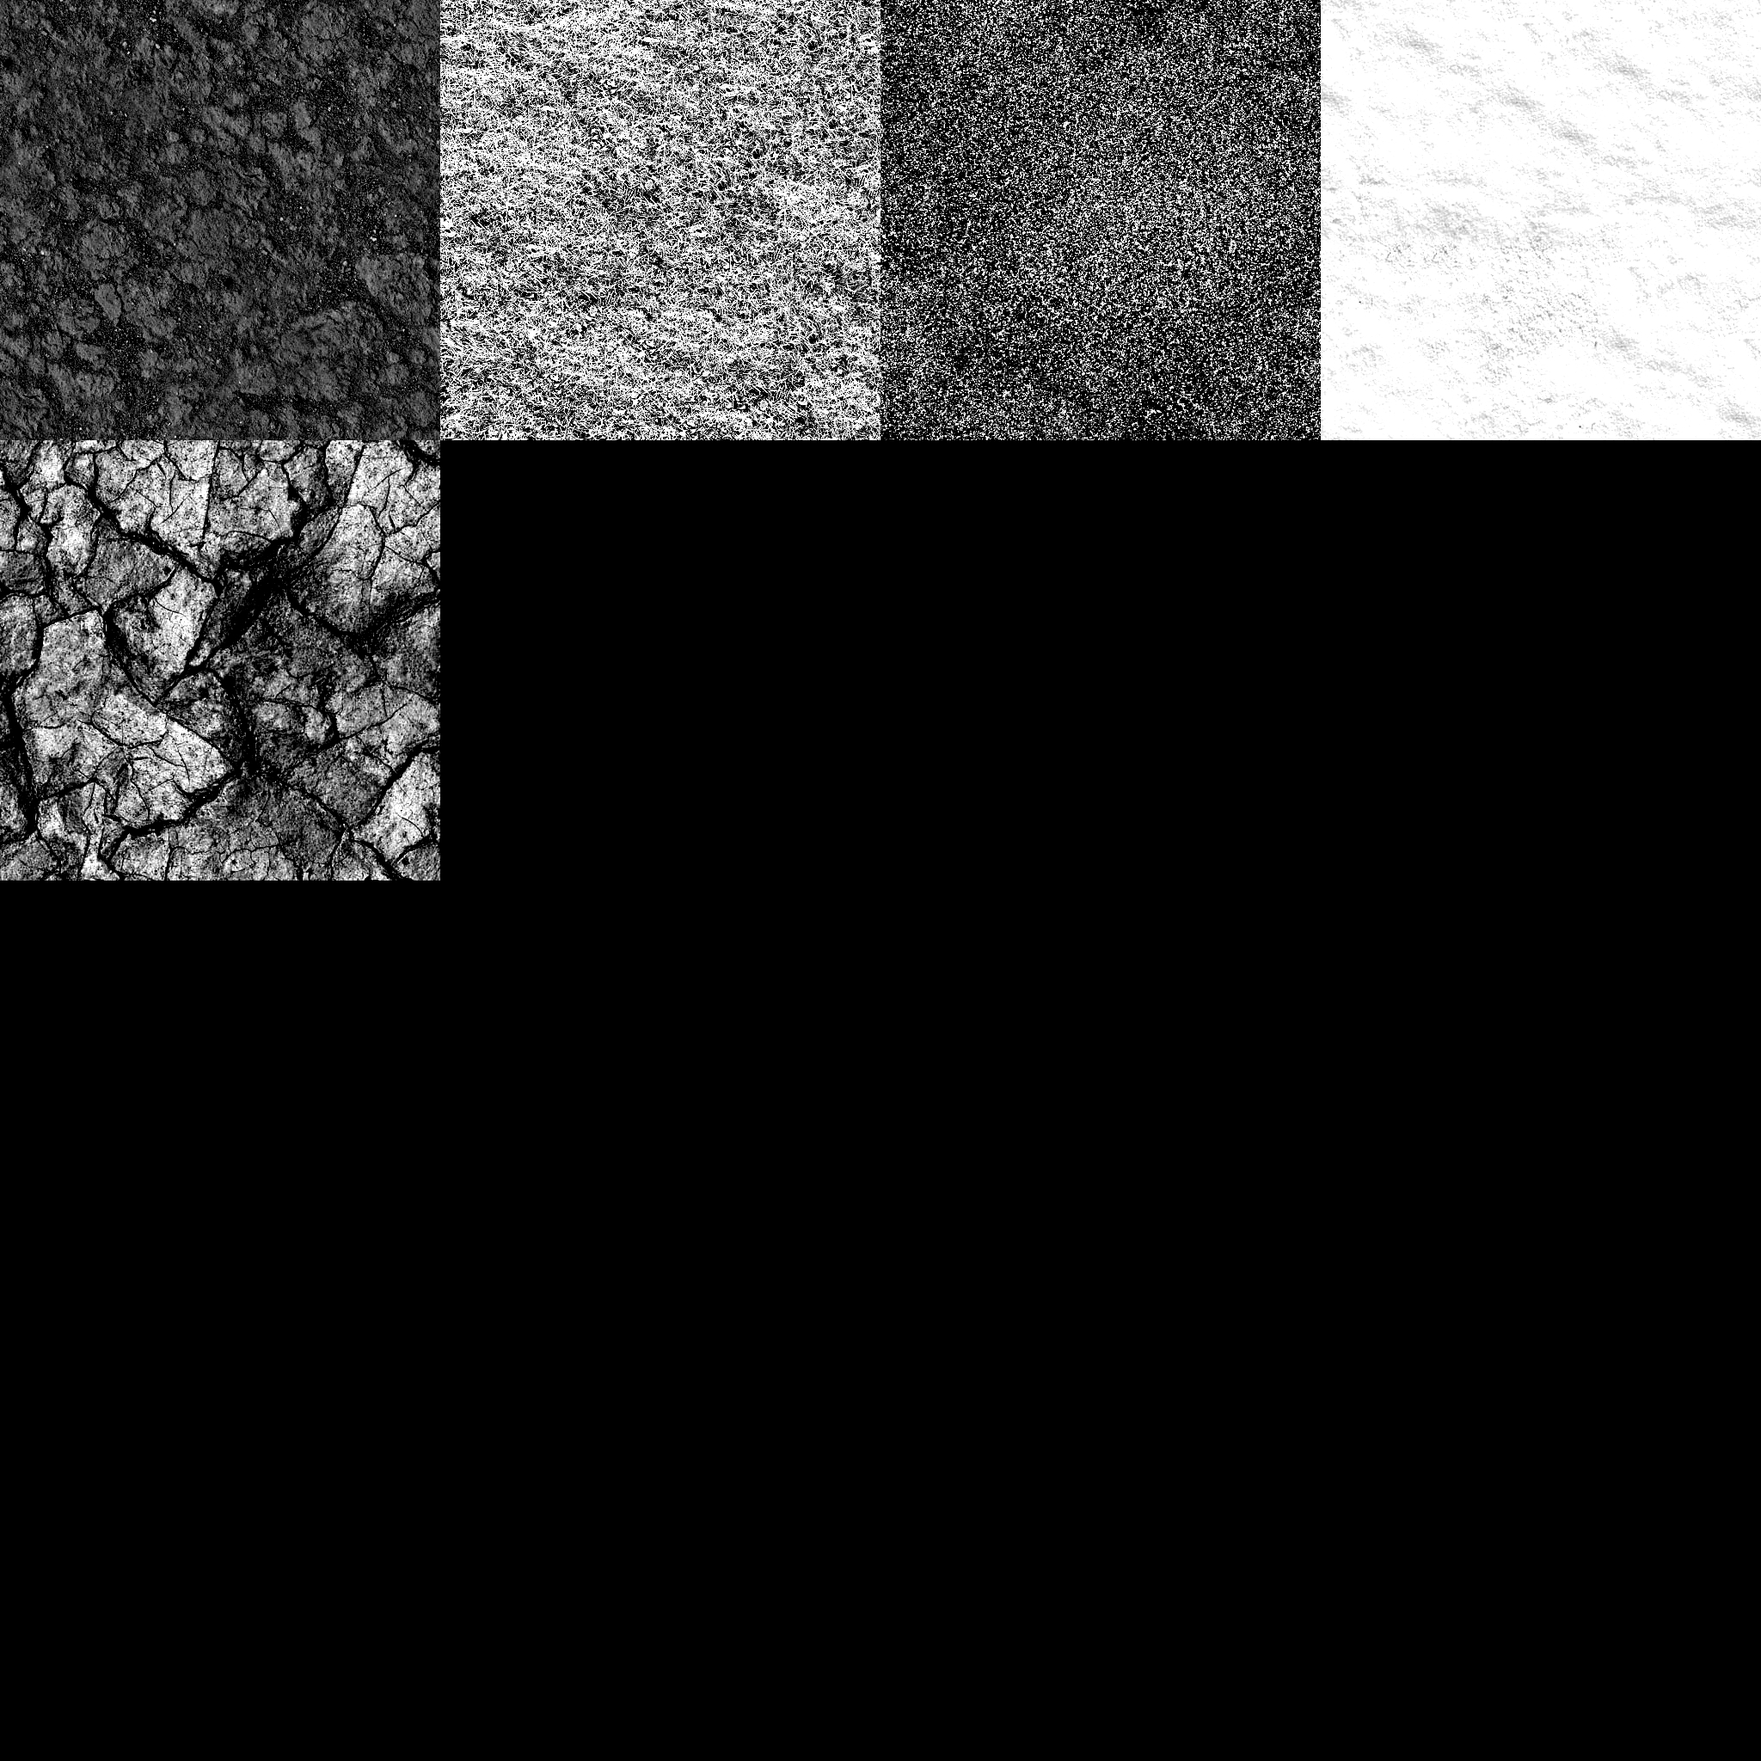
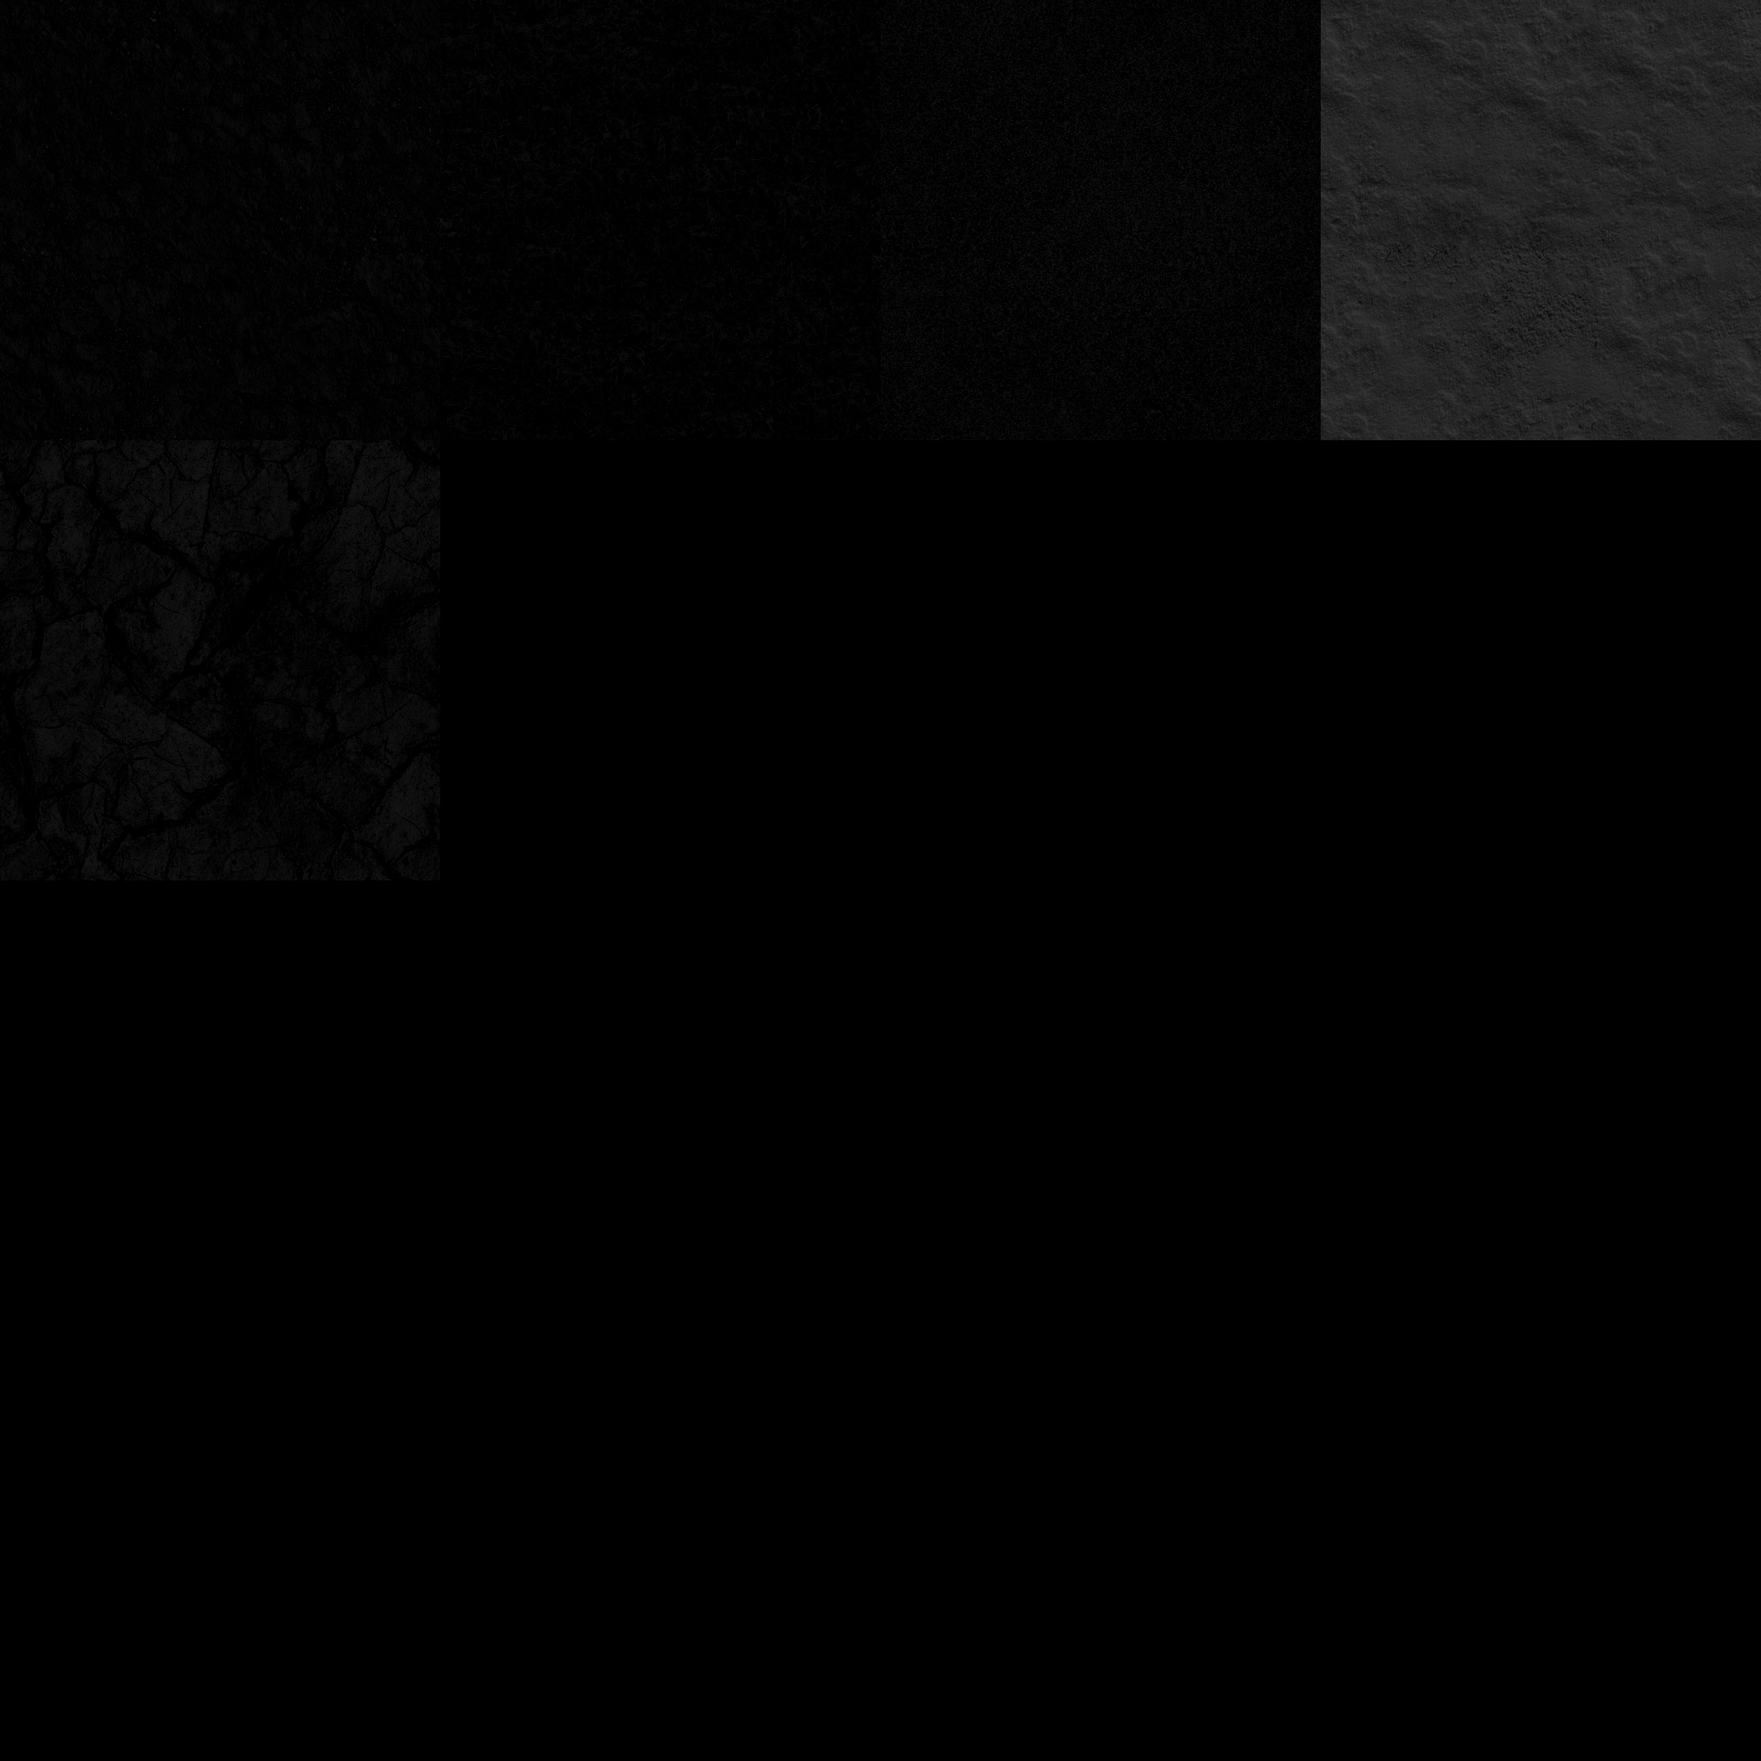
Поправил освещение

Changed region(s): [[0.0, 0.0, 1.0, 0.5]]

diff --git a/client/src/app/datas/three.js/shaders/terrain.shader.ts b/client/src/app/datas/three.js/shaders/terrain.shader.ts
@@ -30,14 +30,14 @@ export const MaskTextureNamePreffix: string = "maskTex";
 export const MapTextureName: string = "mapTexture";
 export const NormalMapTextureName: string = "normalMapTexture";
 export const AoMapTextureName: string = "aoMapTexture";
-export const LightMapName: string = "lightMap";
+export const LightMapTextureName: string = "lightMap";
 
 // Массивы тайлов
 const MapRepeats: string[] = CreateNamedArray(TerrainRepeatName);
 const MapTexture: string[] = CreateNamedArray(MapTextureName);
 const NormalMapTexture: string[] = CreateNamedArray(NormalMapTextureName);
 const AoMapTexture: string[] = CreateNamedArray(AoMapTextureName);
-const LightMap: string[] = CreateNamedArray(LightMapName);
+const LightMap: string[] = CreateNamedArray(LightMapTextureName);
 const MaskMapNames: string[] = MapCycle(TerrainColorDepth, k => MaskMapNamePreffix + k, true);
 export const MapTileCoords: string[] = CreateNamedArray(MapTileCoordsName);
 export const MaskNames: string[] = MapCycle(TerrainColorDepth, k => MaskTextureNamePreffix + k, true);
@@ -68,140 +68,140 @@ export const TerrainUniforms: Uniforms = UniformsUtils.merge([BaseShader.uniform
   tileSize: { type: "v2", value: { x: TerrainTileSize, y: TerrainTileSize } },
   tileSetSize: { type: "v2", value: { x: TerrainTileSetSize, y: TerrainTileSetSize } },
   normalScale: { type: "v2", value: { x: -1, y: 1 } },
-  aoMapIntensity: { type: "f", value: 1 },
-  lightMapIntensity: { type: "f", value: 1 }
+  aoMapIntensity: { type: "f", value: 0.5 },
+  lightMapIntensity: { type: "f", value: 0.05 }
 }]);
 
 // Вершинный шейдер
 export const TerrainFragmentShader: string = `
-      uniform vec2 tileSize;
-      uniform vec2 tileSetSize;
-      uniform vec2 mapRepeat;
-      uniform vec2 ${MapTileCoords.join(", ")};
-      uniform vec2 ${MapRepeats.join(", ")};
+    uniform vec2 tileSize;
+    uniform vec2 tileSetSize;
+    uniform vec2 mapRepeat;
+    uniform vec2 ${MapTileCoords.join(", ")};
+    uniform vec2 ${MapRepeats.join(", ")};
 
-      uniform sampler2D ${MaskNames.join(", ")};
-      uniform sampler2D ${MapTextureName};
+    uniform sampler2D ${MaskNames.join(", ")};
+    uniform sampler2D ${MapTextureName};
 
-      vec2 vec2LineFunc (vec2 min, vec2 max, vec2 value, vec2 valueMin, vec2 valueMax) {
-        return clamp((((min - max) / valueMax) * (value - valueMin)) + max, max, min);
-      }
+    vec2 vec2LineFunc (vec2 min, vec2 max, vec2 value, vec2 valueMin, vec2 valueMax) {
+      return clamp((((min - max) / valueMax) * (value - valueMin)) + max, max, min);
+    }
 
-      vec4 getTileTexture (sampler2D texture, vec2 tileCoords, vec2 uv) {
-        vec2 allTiles = floor((tileSetSize / tileSize) + vec2(0.5, 0.5)) - vec2(1, 1);
-        vec2 coords = vec2(tileCoords.x, allTiles.y - tileCoords.y);
-        vec2 uvMin = vec2(0.0, 0.0);
-        vec2 uvMax = vec2(1.0, 1.0);
-        vec2 tilingUV = (uv - uvMin) * mapRepeat;
-        vec2 epsilon = vec2(0.0001);
-        vec2 offset = (tileSize * coords) + (tileSize * (fract(tilingUV) - epsilon));
-        vec2 textureUV = vec2LineFunc(uvMax, uvMin, offset, uvMin, tileSetSize);
+    vec4 getTileTexture (sampler2D texture, vec2 tileCoords, vec2 uv) {
+      vec2 allTiles = floor((tileSetSize / tileSize) + vec2(0.5, 0.5)) - vec2(1, 1);
+      vec2 coords = vec2(tileCoords.x, allTiles.y - tileCoords.y);
+      vec2 uvMin = vec2(0.0, 0.0);
+      vec2 uvMax = vec2(1.0, 1.0);
+      vec2 tilingUV = (uv - uvMin) * mapRepeat;
+      vec2 epsilon = vec2(0.0001);
+      vec2 offset = (tileSize * coords) + (tileSize * (fract(tilingUV) - epsilon));
+      vec2 textureUV = vec2LineFunc(uvMax, uvMin, offset, uvMin, tileSetSize);
 
-        return texture2D(texture, textureUV);
-      }
+      return texture2D(texture, textureUV);
+    }
 
-      vec4 lightMapTexelToLinear(vec4 texel) {
-        return vec4(pow(texel.rgb, vec3(2.2)), texel.a);
-      }
+    vec4 lightMapTexelToLinear(vec4 texel) {
+      return vec4(pow(texel.rgb, vec3(2.2)), texel.a);
+    }
 
-      #if defined( USE_NORMALMAP )
-        uniform sampler2D ${NormalMapTextureName};
-      #endif
+    #if defined( USE_NORMALMAP )
+      uniform sampler2D ${NormalMapTextureName};
+    #endif
 
-      #if defined( USE_AOMAP )
-        uniform sampler2D ${AoMapTextureName};
-      #endif
+    #if defined( USE_AOMAP )
+      uniform sampler2D ${AoMapTextureName};
+    #endif
 
-      ${BaseShader.fragmentShader
+    ${BaseShader.fragmentShader
     // Общие переменные
     .replace("void main() {", `
-          void main() {
-            ${MaskMapNames.map((n, k) => `vec4 ${n} = texture2D(${MaskNames[k]}, vUv);`).join("\n")}
-        `)
+      void main() {
+        ${MaskMapNames.map((n, k) => `vec4 ${n} = texture2D(${MaskNames[k]}, vUv);`).join("\n")}
+    `)
     // Заполнение текстурных карт
     .replace("#include <map_fragment>", `
-          #ifdef USE_MAP
-            ${MapTexture.map((n, k) => `vec4 ${n} = getTileTexture(${MapTextureName}, ${MapTileCoords[k]}, vUv);`).join("\n")}
-            vec4 texelColor = (${MapTerrains.map((t, k) => "(" + MapTexture[k] + " * " + getMapVarColor(t) + " * " + getMapVar(t) + ".a)").join(" + ")});
-            vec4 diffuseColor = LinearToLinear(texelColor);
-          #endif
-        `)
+      #ifdef USE_MAP
+        ${MapTexture.map((n, k) => `vec4 ${n} = getTileTexture(${MapTextureName}, ${MapTileCoords[k]}, vUv);`).join("\n")}
+        vec4 texelColor = (${MapTerrains.map((t, k) => "(" + MapTexture[k] + " * " + getMapVarColor(t) + " * " + getMapVar(t) + ".a)").join(" + ")});
+        vec4 diffuseColor = LinearToLinear(texelColor);
+      #endif
+    `)
     // Заполнение карт атмосферного свечения: фрагмент 1
     .replace("#include <aomap_pars_fragment>", `
-          #ifdef USE_AOMAP
-            uniform float aoMapIntensity;
-          #endif
-        `)
+      #ifdef USE_AOMAP
+        uniform float aoMapIntensity;
+      #endif
+    `)
     // Заполнение карт атмосферного свечения: фрагмент 2
     .replace("#include <aomap_fragment>", `
-          #ifdef USE_AOMAP
-            ${AoMapTexture.map((n, k) => `vec4 ${n} = getTileTexture(${AoMapTextureName}, ${MapTileCoords[k]}, vUv);`).join("\n")}
-            float ambientOcclusion = (
-              ${MapTerrains.map((t, k) => "(" + AoMapTexture[k] + ".r * " + getMapVarColor(t) + " * " + getMapVar(t) + ".a)").join(" + ")}
-            ) * aoMapIntensity + 1.0;
-            reflectedLight.indirectDiffuse *= ambientOcclusion;
+      #ifdef USE_AOMAP
+        ${AoMapTexture.map((n, k) => `vec4 ${n} = getTileTexture(${AoMapTextureName}, ${MapTileCoords[k]}, vUv);`).join("\n")}
+        float ambientOcclusion = (
+          ${MapTerrains.map((t, k) => "(" + AoMapTexture[k] + ".r * " + getMapVarColor(t) + " * " + getMapVar(t) + ".a)").join(" + ")}
+        ) * aoMapIntensity + 1.0;
+        reflectedLight.indirectDiffuse *= ambientOcclusion;
 
-            #if defined( USE_ENVMAP ) && defined( STANDARD )
-              float dotNV = saturate( dot( geometry.normal, geometry.viewDir ) );
-          		reflectedLight.indirectSpecular *= computeSpecularOcclusion( dotNV, ambientOcclusion, material.roughness );
-            #endif
-          #endif
-        `)
+        #if defined( USE_ENVMAP ) && defined( STANDARD )
+          float dotNV = saturate( dot( geometry.normal, geometry.viewDir ) );
+          reflectedLight.indirectSpecular *= computeSpecularOcclusion( dotNV, ambientOcclusion, material.roughness );
+        #endif
+      #endif
+    `)
     // Удаление лишней закраски
     .replace("vec4 diffuseColor = vec4( diffuse, opacity );", `
-          #ifdef USE_MAP
-          #endif
-        `)
+      #ifdef USE_MAP
+      #endif
+    `)
     // Карта нормалей: фрагмент 1
     .replace("#include <normalmap_pars_fragment>", `
-          #ifdef USE_NORMALMAP
-            uniform vec2 normalScale;
+      #ifdef USE_NORMALMAP
+        uniform vec2 normalScale;
 
-            vec3 perturbNormal2Arb (vec3 eye_pos, vec3 surf_norm) {
-              vec3 q0 = vec3(dFdx(eye_pos.x), dFdx(eye_pos.y), dFdx(eye_pos.z));
-              vec3 q1 = vec3(dFdy(eye_pos.x), dFdy(eye_pos.y), dFdy(eye_pos.z));
-              vec2 st0 = dFdx(vUv.st);
-              vec2 st1 = dFdy(vUv.st);
-              vec3 S = normalize(q0 * st1.t - q1 * st0.t);
-              vec3 T = normalize(-q0 * st1.s + q1 * st0.s);
-              vec3 N = normalize(surf_norm);
+        vec3 perturbNormal2Arb (vec3 eye_pos, vec3 surf_norm) {
+          vec3 q0 = vec3(dFdx(eye_pos.x), dFdx(eye_pos.y), dFdx(eye_pos.z));
+          vec3 q1 = vec3(dFdy(eye_pos.x), dFdy(eye_pos.y), dFdy(eye_pos.z));
+          vec2 st0 = dFdx(vUv.st);
+          vec2 st1 = dFdy(vUv.st);
+          vec3 S = normalize(q0 * st1.t - q1 * st0.t);
+          vec3 T = normalize(-q0 * st1.s + q1 * st0.s);
+          vec3 N = normalize(surf_norm);
 
-              ${MaskMapNames.map((n, k) => `vec4 ${n} = texture2D(${MaskNames[k]}, vUv);`).join("\n")}
-              ${NormalMapTexture.map((n, k) => `vec4 ${n} = getTileTexture(${NormalMapTextureName}, ${MapTileCoords[k]}, vUv);`).join("\n")}
+          ${MaskMapNames.map((n, k) => `vec4 ${n} = texture2D(${MaskNames[k]}, vUv);`).join("\n")}
+          ${NormalMapTexture.map((n, k) => `vec4 ${n} = getTileTexture(${NormalMapTextureName}, ${MapTileCoords[k]}, vUv);`).join("\n")}
 
-              vec4 full_normal = (
-                ${MapTerrains.map((t, k) => "(" + NormalMapTexture[k] + " * " + getMapVarColor(t) + " * " + getMapVar(t) + ".a)").join(" + ")}
-              );
+          vec4 full_normal = (
+            ${MapTerrains.map((t, k) => "(" + NormalMapTexture[k] + " * " + getMapVarColor(t) + " * " + getMapVar(t) + ".a)").join(" + ")}
+          );
 
-              vec3 mapN = full_normal.xyz * 2.0 - 1.0;
-              mapN.xy = normalScale * mapN.xy;
-              mat3 tsn = mat3(S, T, N);
+          vec3 mapN = full_normal.xyz * 2.0 - 1.0;
+          mapN.xy = normalScale * mapN.xy;
+          mat3 tsn = mat3(S, T, N);
 
-              return normalize(tsn * mapN);
-            }
-          #endif
-        `)
+          return normalize(tsn * mapN);
+        }
+      #endif
+    `)
     // Карта нормалей: фрагмент 2
     .replace("#include <normal_fragment_maps>", `
-          #ifdef USE_NORMALMAP
-            normal = perturbNormal2Arb(-vViewPosition, normal);
-          #endif
-        `)
+      #ifdef USE_NORMALMAP
+        normal = perturbNormal2Arb(-vViewPosition, normal);
+      #endif
+    `)
     // Карта освещения: фрагмент 1
     .replace("#include <lightmap_pars_fragment>", `
-          uniform sampler2D ${LightMapName};
-          uniform float lightMapIntensity;
-        `)
+      uniform float lightMapIntensity;
+      uniform sampler2D ${LightMapTextureName};
+    `)
     // Карта освещения: фрагмент 2
     // gl_FragColor = gl_FragColor * texture2D(lightMap, vUv2);
-    .replace("#include <lightmap_fragment>", `
-          #ifdef USE_LIGHTMAP
-            ${LightMap.map((n, k) => `vec4 ${n} = getTileTexture(${LightMapName}, ${MapTileCoords[k]}, vUv2);`).join("\n")}
-            vec4 lightMapTexel = (${MapTerrains.map((t, k) => "(" + LightMap[k] + " * " + getMapVarColor(t) + " * " + getMapVar(t) + ".a)").join(" + ")});
-            vec3 lightMapIrradiance = lightMapTexel.rgb * lightMapIntensity;
-            reflectedLight.indirectDiffuse += lightMapIrradiance;
-          #endif
-        `)
+    .replace("#include <lights_fragment_maps>", `
+      #ifdef USE_LIGHTMAP
+        ${LightMap.map((n, k) => `vec4 ${n} = getTileTexture(${LightMapTextureName}, ${MapTileCoords[k]}, vUv);`).join("\n")}
+        vec4 lightMapTexel = (${MapTerrains.map((t, k) => "(" + LightMap[k] + " * " + getMapVarColor(t) + " * " + getMapVar(t) + ".a)").join(" + ")});
+        vec3 lightMapIrradiance = lightMapTexel.rgb * lightMapIntensity;
+        reflectedLight.indirectDiffuse += lightMapIrradiance;
+      #endif
+    `)
   }
 `;
 

diff --git a/client/src/app/services/three.js/terrain.service.ts b/client/src/app/services/three.js/terrain.service.ts
@@ -2,7 +2,7 @@ import { CreateArray, VoidFunctionVar } from "@_datas/app";
 import { MapTerrains, TexturePaths } from "@_datas/dream-map";
 import { DreamMapTerrainName } from "@_datas/dream-map-objects";
 import { DreamCeilParts, DreamCeilSize, DreamDefHeight, DreamMapSize, DreamMaxHeight, DreamOutsideSize, DreamTerrain } from "@_datas/dream-map-settings";
-import { AoMapTextureName, LightMapName, MapTextureName, MaskNames, MaskTextureNamePreffix, NormalMapTextureName, TerrainColorDepth, TerrainDefines, TerrainFragmentShader, TerrainRepeat, TerrainUniforms, TerrainVertexShader } from "@_datas/three.js/shaders/terrain.shader";
+import { AoMapTextureName, LightMapTextureName, MapTextureName, MaskNames, MaskTextureNamePreffix, NormalMapTextureName, TerrainColorDepth, TerrainDefines, TerrainFragmentShader, TerrainRepeat, TerrainUniforms, TerrainVertexShader } from "@_datas/three.js/shaders/terrain.shader";
 import { AngleToRad, CheckInRange, MathRound } from "@_helpers/math";
 import { ArrayFind, ArrayForEach, ArraySome, ForCycle, XYForEach, XYMapEach } from "@_helpers/objects";
 import { CustomObject, CustomObjectKey } from "@_models/app";
@@ -155,10 +155,10 @@ export class DreamMapTerrainService implements OnDestroy {
     // Текстуры
     const textures: CustomObject<Texture | CanvasTexture> = {
       ...MaskNames.reduce((o, name, k) => ({ ...o, [name]: colorTextures[k] }), {}),
-      mapTexture: this.loadTexture(TexturePaths.face + "." + ImageExtension.jpg, MapTextureName),
-      normalMapTexture: this.loadTexture(TexturePaths.normal + "." + ImageExtension.jpg, NormalMapTextureName),
-      aoMapTexture: this.loadTexture(TexturePaths.ao + "." + ImageExtension.jpg, AoMapTextureName),
-      lightMap: this.loadTexture(TexturePaths.light + "." + ImageExtension.jpg, LightMapName)
+      [MapTextureName]: this.loadTexture(TexturePaths.face + "." + ImageExtension.jpg, MapTextureName),
+      [NormalMapTextureName]: this.loadTexture(TexturePaths.normal + "." + ImageExtension.jpg, NormalMapTextureName),
+      [AoMapTextureName]: this.loadTexture(TexturePaths.ao + "." + ImageExtension.jpg, AoMapTextureName),
+      [LightMapTextureName]: this.loadTexture(TexturePaths.light + "." + ImageExtension.jpg, LightMapTextureName)
     };
     // Значения
     const uniforms: Uniforms = UniformsUtils.merge([TerrainUniforms, {

diff --git a/client/src/app/services/three.js/skybox.service.ts b/client/src/app/services/three.js/skybox.service.ts
@@ -148,11 +148,11 @@ const SkySettings: CustomObjectKey<SettingsVars, CustomObjectKey<"day" | "night"
   },
   sunLight: {
     day: { min: 0.2, max: 1 },
-    night: { min: 0.2, max: 0.3 }
+    night: { min: 0.2, max: 0.22 }
   },
   atmosphereLight: {
-    day: { min: 0.2, max: 0.6 },
-    night: { min: 0.2, max: 0.4 }
+    day: { min: 0.2, max: 0.5 },
+    night: { min: 0.2, max: 0.2 }
   },
   atmSkyColorR: {
     day: { min: 0.6, max: 0.7 },
